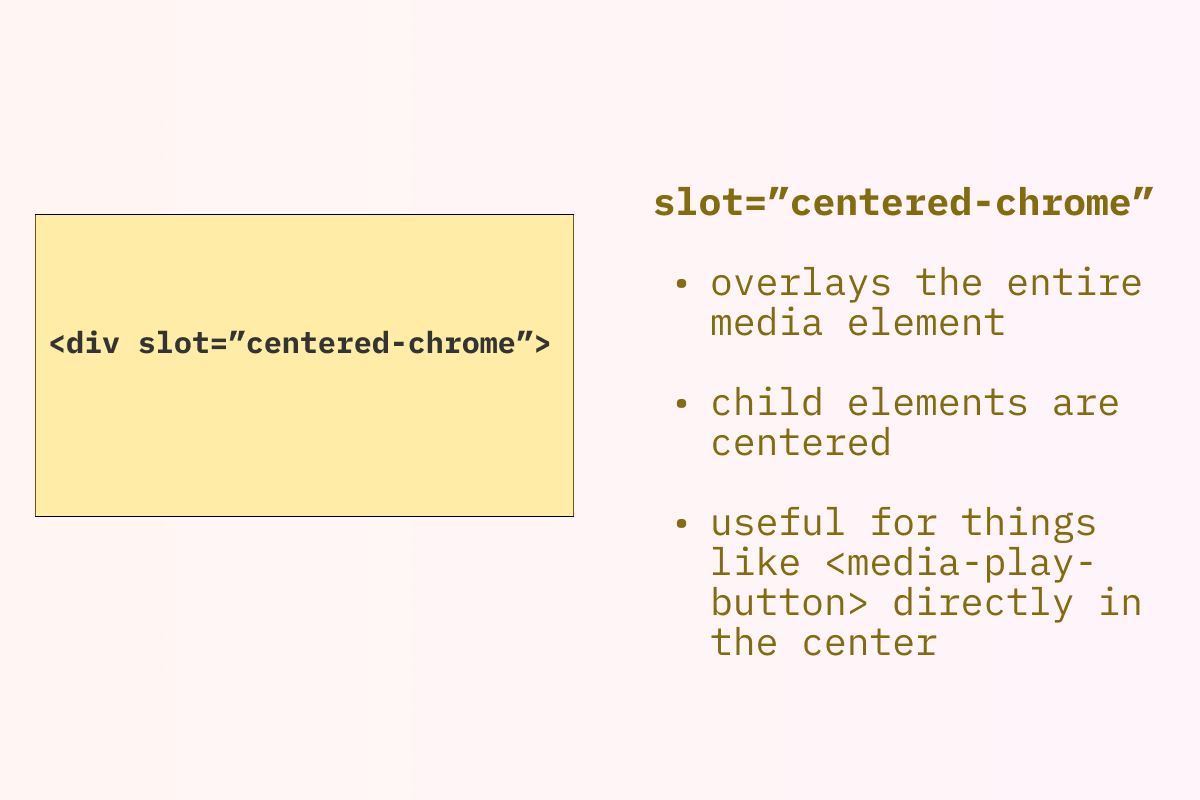
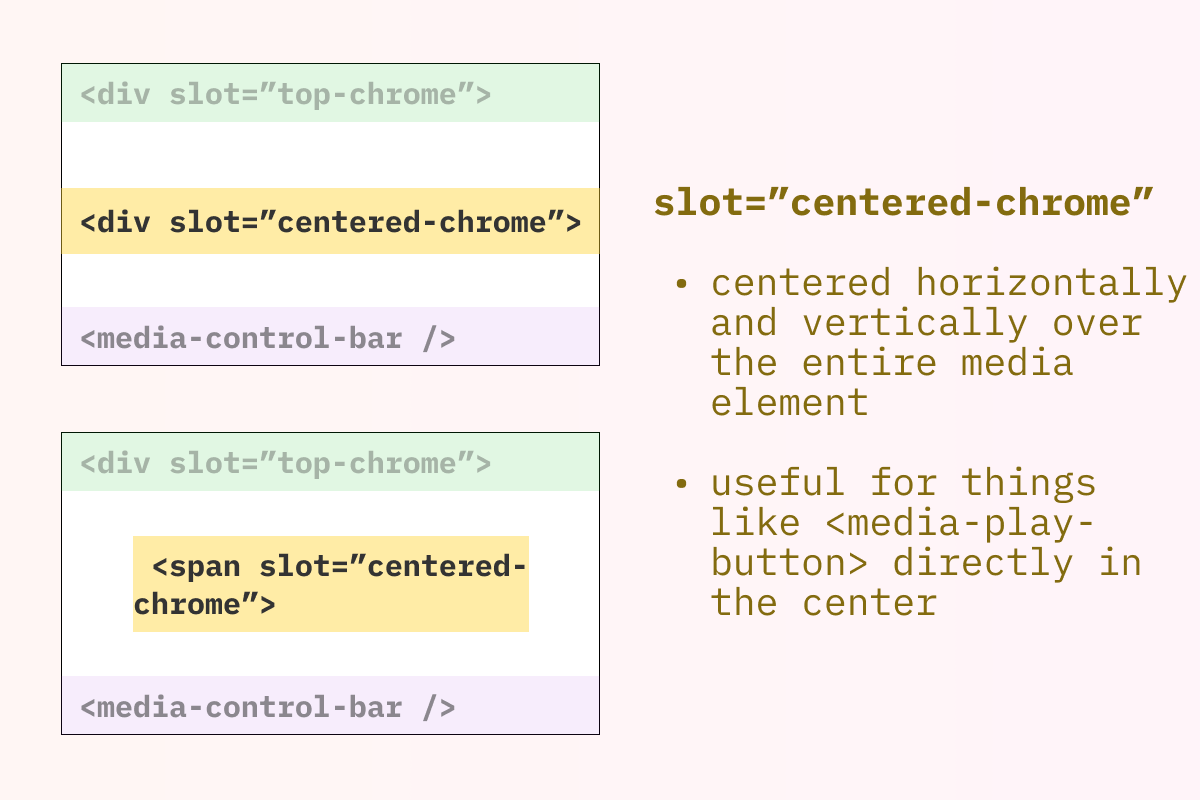
improv/styling-rework: update docs based on latest changes.

diff --git a/docs/media-controller.md b/docs/media-controller.md
@@ -115,11 +115,9 @@ Just in case your browser doesn't support `aspect-ratio` (all major evergreen br
 ```
 
 # Layout - Slots
-Slots are used to tell `<media-controller/>` where you want your controls positioned. Even if you aren't explicitly naming a slot, you're still using one (the "default slot"). Below is a discussion of available slots and how they work.
+Slots are used to tell `<media-controller/>` where you want your controls positioned. Even if you aren't explicitly naming a slot, you're still using one (the "default slot"). Most commonly, you'll put media control elements like `<media-play-button/>` or `<media-fullscreen-button/>` inside slots. But any arbitrary markup can be placed inside a slot.
 
-Slots are used to tell `<media-controller/>` where you want your controls positioned. Most commonly, you'll put media control elements like `<media-play-button/>` or `<media-fullscreen-button/>` inside slots. But any arbitrary markup can be placed inside a lot.
-
-This gives you the flexibility to customize your player. For example, here is a player that has an h3 title in the top slot and a play button in the centered slot.
+This gives you a lot of flexibility when customizing your player. For example, here is a player that has an h3 title in the top slot and a play button in the centered slot.
 
 ```html
 <media-controller>
@@ -128,9 +126,6 @@ This gives you the flexibility to customize your player. For example, here is a 
     <h3>Episode 2</h3>
   </div>
   <div slot="centered-chrome">
-    <media-play-button></media-play-button>
-  </div>
-  <div> <!-- This will go in the default slot, aka "bottom-chrome" -->
     <media-play-button></media-play-button>
   </div>
 </media-controller>
@@ -161,12 +156,13 @@ You also may want to show different slots on mobile vs. desktop. For example, he
   <div slot="centered-chrome" class="mobile">
     <media-play-button></media-play-button>
   </div>
-  <media-control-bar class="desktop">
+  <media-control-bar class="desktop">  <!-- This will go in the default slot, effectively the "bottom-chrome" -->
     <media-play-button></media-play-button>
   </media-control-bar>
 </media-controller>
 ```
 
+Below is a more in-depth discussion of available slots and how they work.
 
 (**NOTE**: slots are actually [part of the Web Components / Custom Elements specification](https://developer.mozilla.org/en-US/docs/Web/Web_Components/Using_templates_and_slots), but you shouldn't need to understand these technical details to work with them in `<media-chrome/>`)
 
@@ -183,9 +179,9 @@ For an interactive example of how each of the slots render for `video`, check ou
 <br>
 <br>
 
-* Render Location: Each child that doesn't specify a slot will render at the bottom of the <media-controller/>. If you have more than element like this they will be stacked vertically.
+* Render Location: Each child that doesn't specify a slot will render at the bottom of the `<media-controller/>`. If you have more than element like this they will be stacked vertically.
 
-* Common/Example use cases: showing one or more rows of controls at the bottom of the `<media-controller/>`. For many use cases, you can simply add a `<media-control-bar/>` for each row of controls you'd like.
+* Common/Example use cases: showing one or more rows of controls at the bottom of the `<media-controller/>`. For many use cases, you can simply add a `<media-control-bar/>` for each row of controls you'd like, which will provide you with additional automatic sizing and layout behavior.
   * [Basic example](https://media-chrome.mux.dev/examples/basic.html) ([view source](https://github.com/muxinc/media-chrome/blob/main/examples/basic.html))
   * [Mobile example](https://media-chrome.mux.dev/examples/mobile.html) ([view source](https://github.com/muxinc/media-chrome/blob/main/examples/mobile.html))
   * [Youtube theme](https://media-chrome.mux.dev/examples/themes/youtube-theme.html) ([view source](https://github.com/muxinc/media-chrome/blob/main/examples/themes/youtube-theme.html))
@@ -222,9 +218,9 @@ For an interactive example of how each of the slots render for `video`, check ou
 <br>
 <br>
 
-* Render Location: The child that specifies `slot="centered-chrome"` will cover all of the `<media-controller/>` and will be "above" anything in the default slot / "`bottom-chrome`", `top-chrome`, or `middle-chrome`. By default, the `centered-chrome` element will layout all children within a centered [flexbox](https://css-tricks.com/snippets/css/a-guide-to-flexbox/) row with each child spaced evenly apart from one another.
+* Render Location: The child that specifies `slot="centered-chrome"` will show up in the center of the `<media-controller/>` and will be "above" anything in the default slot, `top-chrome`, or `middle-chrome`.
 
-* Common/Example use cases: "big button" controls that are centered and horizontally layed out "on top of" the media. While you **_can_** have multiple children that are "slotted to" `centered-chrome`, most likely, you'll want to use one to take advantage of the built in layout.
+* Common/Example use cases: "big button" controls that are centered and horizontally layed out "on top of" the media. While you **_can_** have multiple children that are "slotted to" `centered-chrome`, most likely, you'll want to use one make styling and layout easier and more predictable.
   * [Mobile example](https://media-chrome.mux.dev/examples/mobile.html) ([view source](https://github.com/muxinc/media-chrome/blob/main/examples/mobile.html))
   * [Demuxed 2021 theme](https://media-chrome.mux.dev/examples/themes/demuxed-2021-theme.html) ([view source](https://github.com/muxinc/media-chrome/blob/main/examples/themes/demuxed-2021-theme.html))
 
